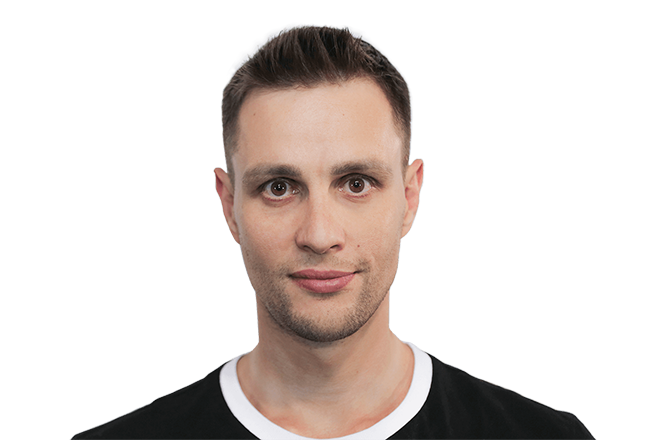
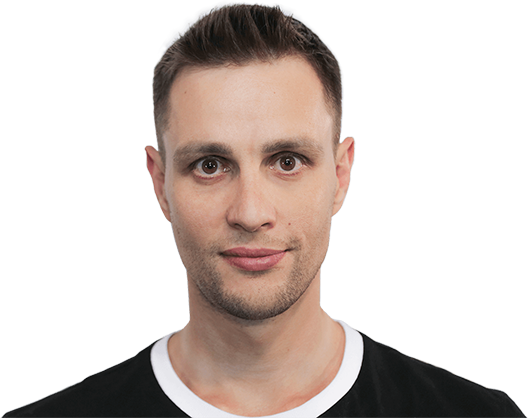
footer form

Changed region(s): [[0.0, 0.0, 1.0, 1.0], [0.4545, 0.9952, 0.5152, 1.0]]

diff --git a/src/js/script.js b/src/js/script.js
@@ -12,30 +12,32 @@ var myModule = (function () {
 		$('#introduction__submit, #introduction__submit_footer').on('click', validation);
 
 		$(document).on('mousemove touchend', function(event) {
-			var formBLock = $('#meetTo .container').offset(),
-				object=$('#meetTo .container'),
-				// надбавки чтобы взять центр оси по середине фотки Ильи
-				plusX = document.documentElement.clientWidth <= 480 ? $('#meetTo .container').width() : 200 ,
-				plusY =	document.documentElement.clientWidth <= 480 ? ($('#meetTo .container').height() - 80) : 200 ;
-				formBLock.top += plusY;
-				formBLock.left += plusX;
+			var formBLock = $('#meetTo .bg.active').offset();
+				formBLock.top += $('#meetTo .bg.active').height()/2,
+				formBLock.left += $('#meetTo .bg.active').width()/2;
+				console.log(formBLock.top+'='+formBLock.left);
 			var x = formBLock.left - event.pageX,
-				y = (formBLock.top - event.pageY),
+				y = formBLock.top - event.pageY,
 				angle = Math.atan2(y,x)*180/Math.PI; // узнаем угол под которым курсом, относительно центра фото
 				if (Math.abs(x) < 80 && Math.abs(y) < 80) { // мышка над Ильей - cмотрим прямо
-					object.css('background-image', 'url(img/form2_bg_c.png)')
+					$('.bg-container .active').removeClass('active');
+					$('.bg-container .bg_c').addClass('active');
 				} else {
 					if (angle <= 45 || angle >= -45) { // влево
-						object.css('background-image', 'url(img/form2_bg_l.png)')
+						$('.bg-container .active').removeClass('active');
+						$('.bg-container .bg_l').addClass('active');
 					}
 					if (angle > 45 && angle < 135) { // вверх
-						object.css('background-image', 'url(img/form2_bg_t.png)')
+						$('.bg-container .active').removeClass('active');
+						$('.bg-container .bg_t').addClass('active');
 					}
 					if (angle >= 135 || angle <= -135) { // вправо
-						object.css('background-image', 'url(img/form2_bg_r.png)')
+						$('.bg-container .active').removeClass('active');
+						$('.bg-container .bg_r').addClass('active');
 					}
 					if (angle < -45 && angle > -135) { // вниз
-						object.css('background-image', 'url(img/form2_bg_b.png)')
+						$('.bg-container .active').removeClass('active');
+						$('.bg-container .bg_b').addClass('active');
 					}
 				}
 		});

diff --git a/src/sass/layout/_footer.scss b/src/sass/layout/_footer.scss
@@ -2,6 +2,8 @@
 	.call-wrap {
 		background-color: #f8f7fa;
 		.container {
+			overflow: hidden;
+			position: relative;
 			padding-top: 105px;
 			padding-bottom: 105px;
 			@include clearfix;
@@ -34,6 +36,11 @@
 		.form__introduction {
 			text-align: left;
 		}
+	}
+
+	.container-form {
+		position: relative;
+		z-index: 2;
 	}
 }
 .corp-line {
@@ -86,11 +93,28 @@
 		// width: 86%;
 	}
 }
+
+.bg-container {
+	position: absolute;
+	z-index: 1;
+	width: 50%;
+	left: 0;
+	bottom: 0;
+	.bg {
+		display: none;
+		max-width: 100%;
+		&.active {
+			display: block;
+		}
+	}
+}
 @media screen and (max-width: 1025px) {
 	.footer .call-wrap .container {
-		background-size: 45%;
 		padding-top: 85px;
 		padding-bottom: 85px;
+	}
+	.bg-container {
+		width: 45%;
 	}
 	.call-wrap{
 		.tooltip-error {
@@ -102,6 +126,11 @@
 	}
 }
 @media screen and (max-width: 769px) {
+	.bg-container {
+		width: 60%;
+		left: initial;
+		right: -25%;
+	}
 	.corp-line .left-side {
 		display: block;
 		text-align: center;
@@ -135,7 +164,10 @@
 	}
 }
 @media screen and (max-width: 601px) {
-		.call-wrap {
+	.bg-container {
+		width: 80%;
+	}
+	.call-wrap {
 		.form__phone {
 			width: 260px;
 			box-sizing:border-box;
@@ -159,14 +191,23 @@
 	.footer {
 		.call-wrap {
 			.container {
-				background-position: 300% 100%;
-				background-size: 80%;
 				padding-bottom: 150px;
 			}
 		}
 	}
+	.bg-container {
+		width: 100%;
+		right: -50%;
+	}
 }
 @media screen and (max-width: 381px) {
+	.footer {
+		.call-wrap {
+			.container {
+				padding-bottom: 180px;
+			}
+		}
+	}
 	.footer .call-wrap  {
 		.form__introduction,
 		.form__text {

diff --git a/src/sass/layout/_header.scss b/src/sass/layout/_header.scss
@@ -124,9 +124,6 @@
 		max-width:80%;
 		width: 90%;
 	}
-	.top-line__tel{
-		@include font-size(20px);
-	}
 }
 @media screen and (max-width: 500px) {
 	.top-line__logo{
@@ -139,9 +136,6 @@
 	}
 	.header-block__title_big{
 		@include font-size(36px);
-	}
-	.top-line__tel{
-		@include font-size(18px);
 	}
 }
 @media screen and (max-height: 680px) {

diff --git a/src/sass/layout/_form.scss b/src/sass/layout/_form.scss
@@ -25,7 +25,7 @@
 		@include font-size(18px);
 		padding:  14px 20px;
 		outline: none;
-		border: 3px solid #fff;
+		border: 1px solid #cacacc;
 		width: 230px;
 	    vertical-align: top;
 		&:focus{
